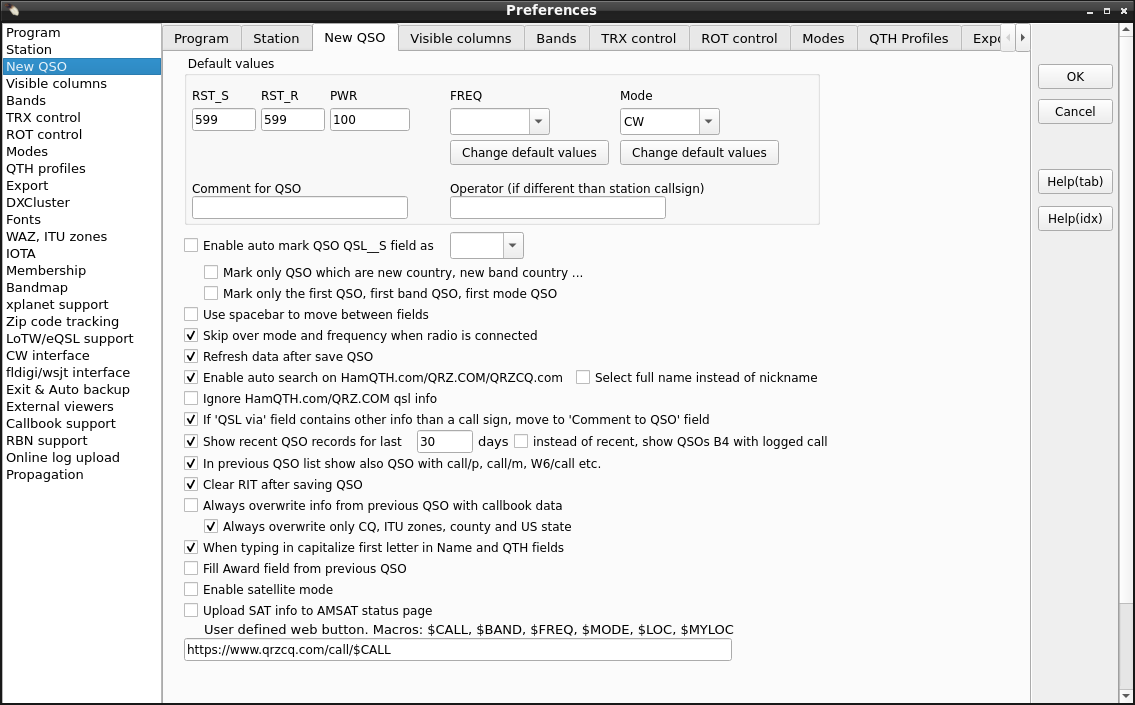
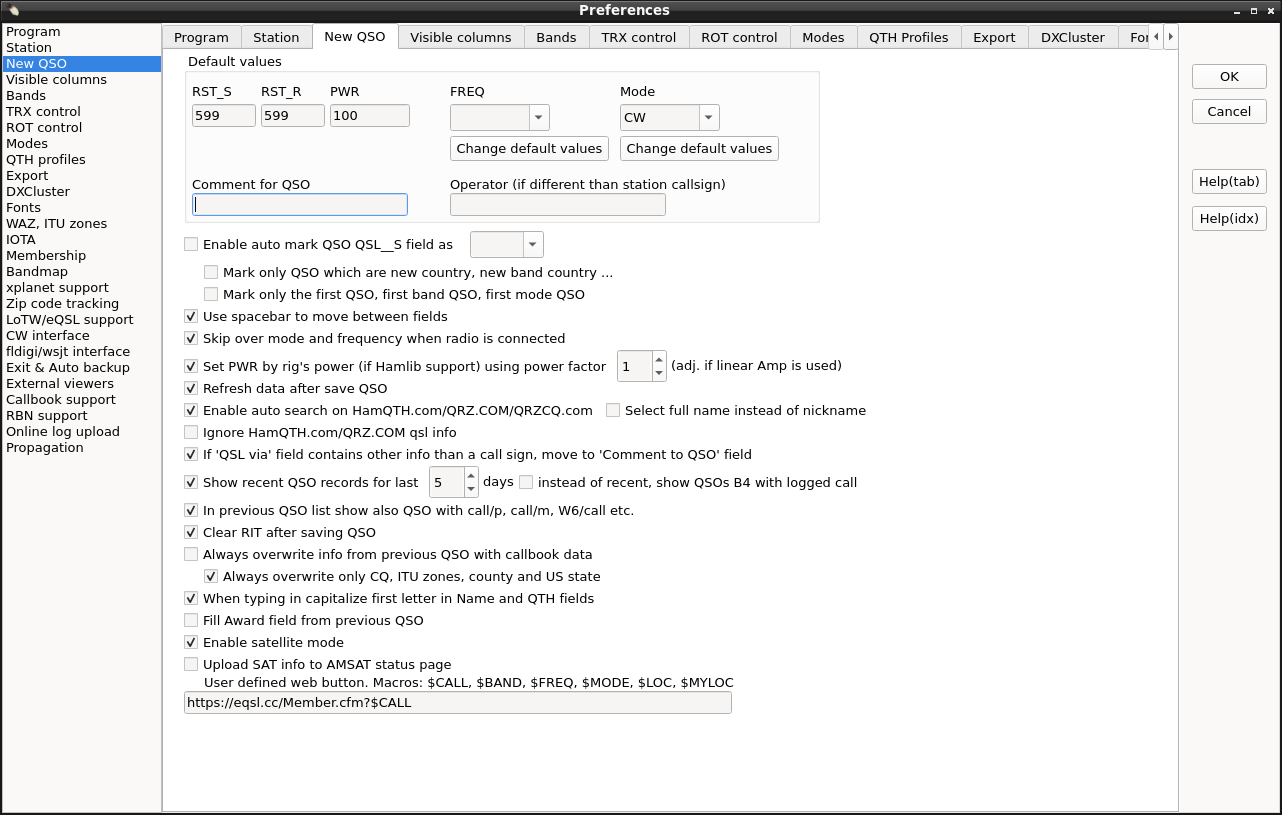
NewQso:Add:Set PWR by rig RFPOWER if supported by Hamlib and checked from preferences/NewQSO

Changed region(s): [[0.0, 0.0, 1.0, 0.9986], [0.9868, 0.8426, 1.0, 0.9986], [0.0, 0.9674, 0.0308, 0.9986]]

diff --git a/help/h1.html b/help/h1.html
@@ -171,6 +171,9 @@
     most natural way but it works only if you are moving forwards. To move between fields,
     there are two other generic possibilities (TAB key and up/down arrow keys) which
     remain unaffected even if you check the spacebar option. </br>
+    The <strong>'Set PWR by rig's power'</strong> tries to read rig power via rigctld if rig model supports it. 
+    If you use linear amplifier you can set power factor bigger than 1 to get the approx output power with used rigs drive power.
+    </br>
     The <strong>'Refresh data after save QSO'</strong> affects the data displayed in the QSO List (Ctrl-O). If checked, each
     QSO appears in this list immediately after logging, however the refresh procedure is
     quite slow. To save time, keep this box unchecked. </br>

diff --git a/src/changelog.html b/src/changelog.html
@@ -12,6 +12,7 @@
     What is new:
     <ul style="list-style: square;text-align:left; color: green;" >
     <li>(135)</li><ul>
+    <li>NewQso:Add:Set PWR by rig RFPOWER if supported by Hamlib and checked from preferences/NewQSO</li>
     <li>RigControl:Add:RFpower check (if supported) added to rig polling. Not used yet.(needs more work)</li> 
     <li>TRXControl:Remove: FreqBar that is useless. Now there is only RFPowerBar. (still need testing)</li>
     <li>TRXControl:Add:RFPower bar changed to slider that can change rig power (if supported by Hamlib)</li>
